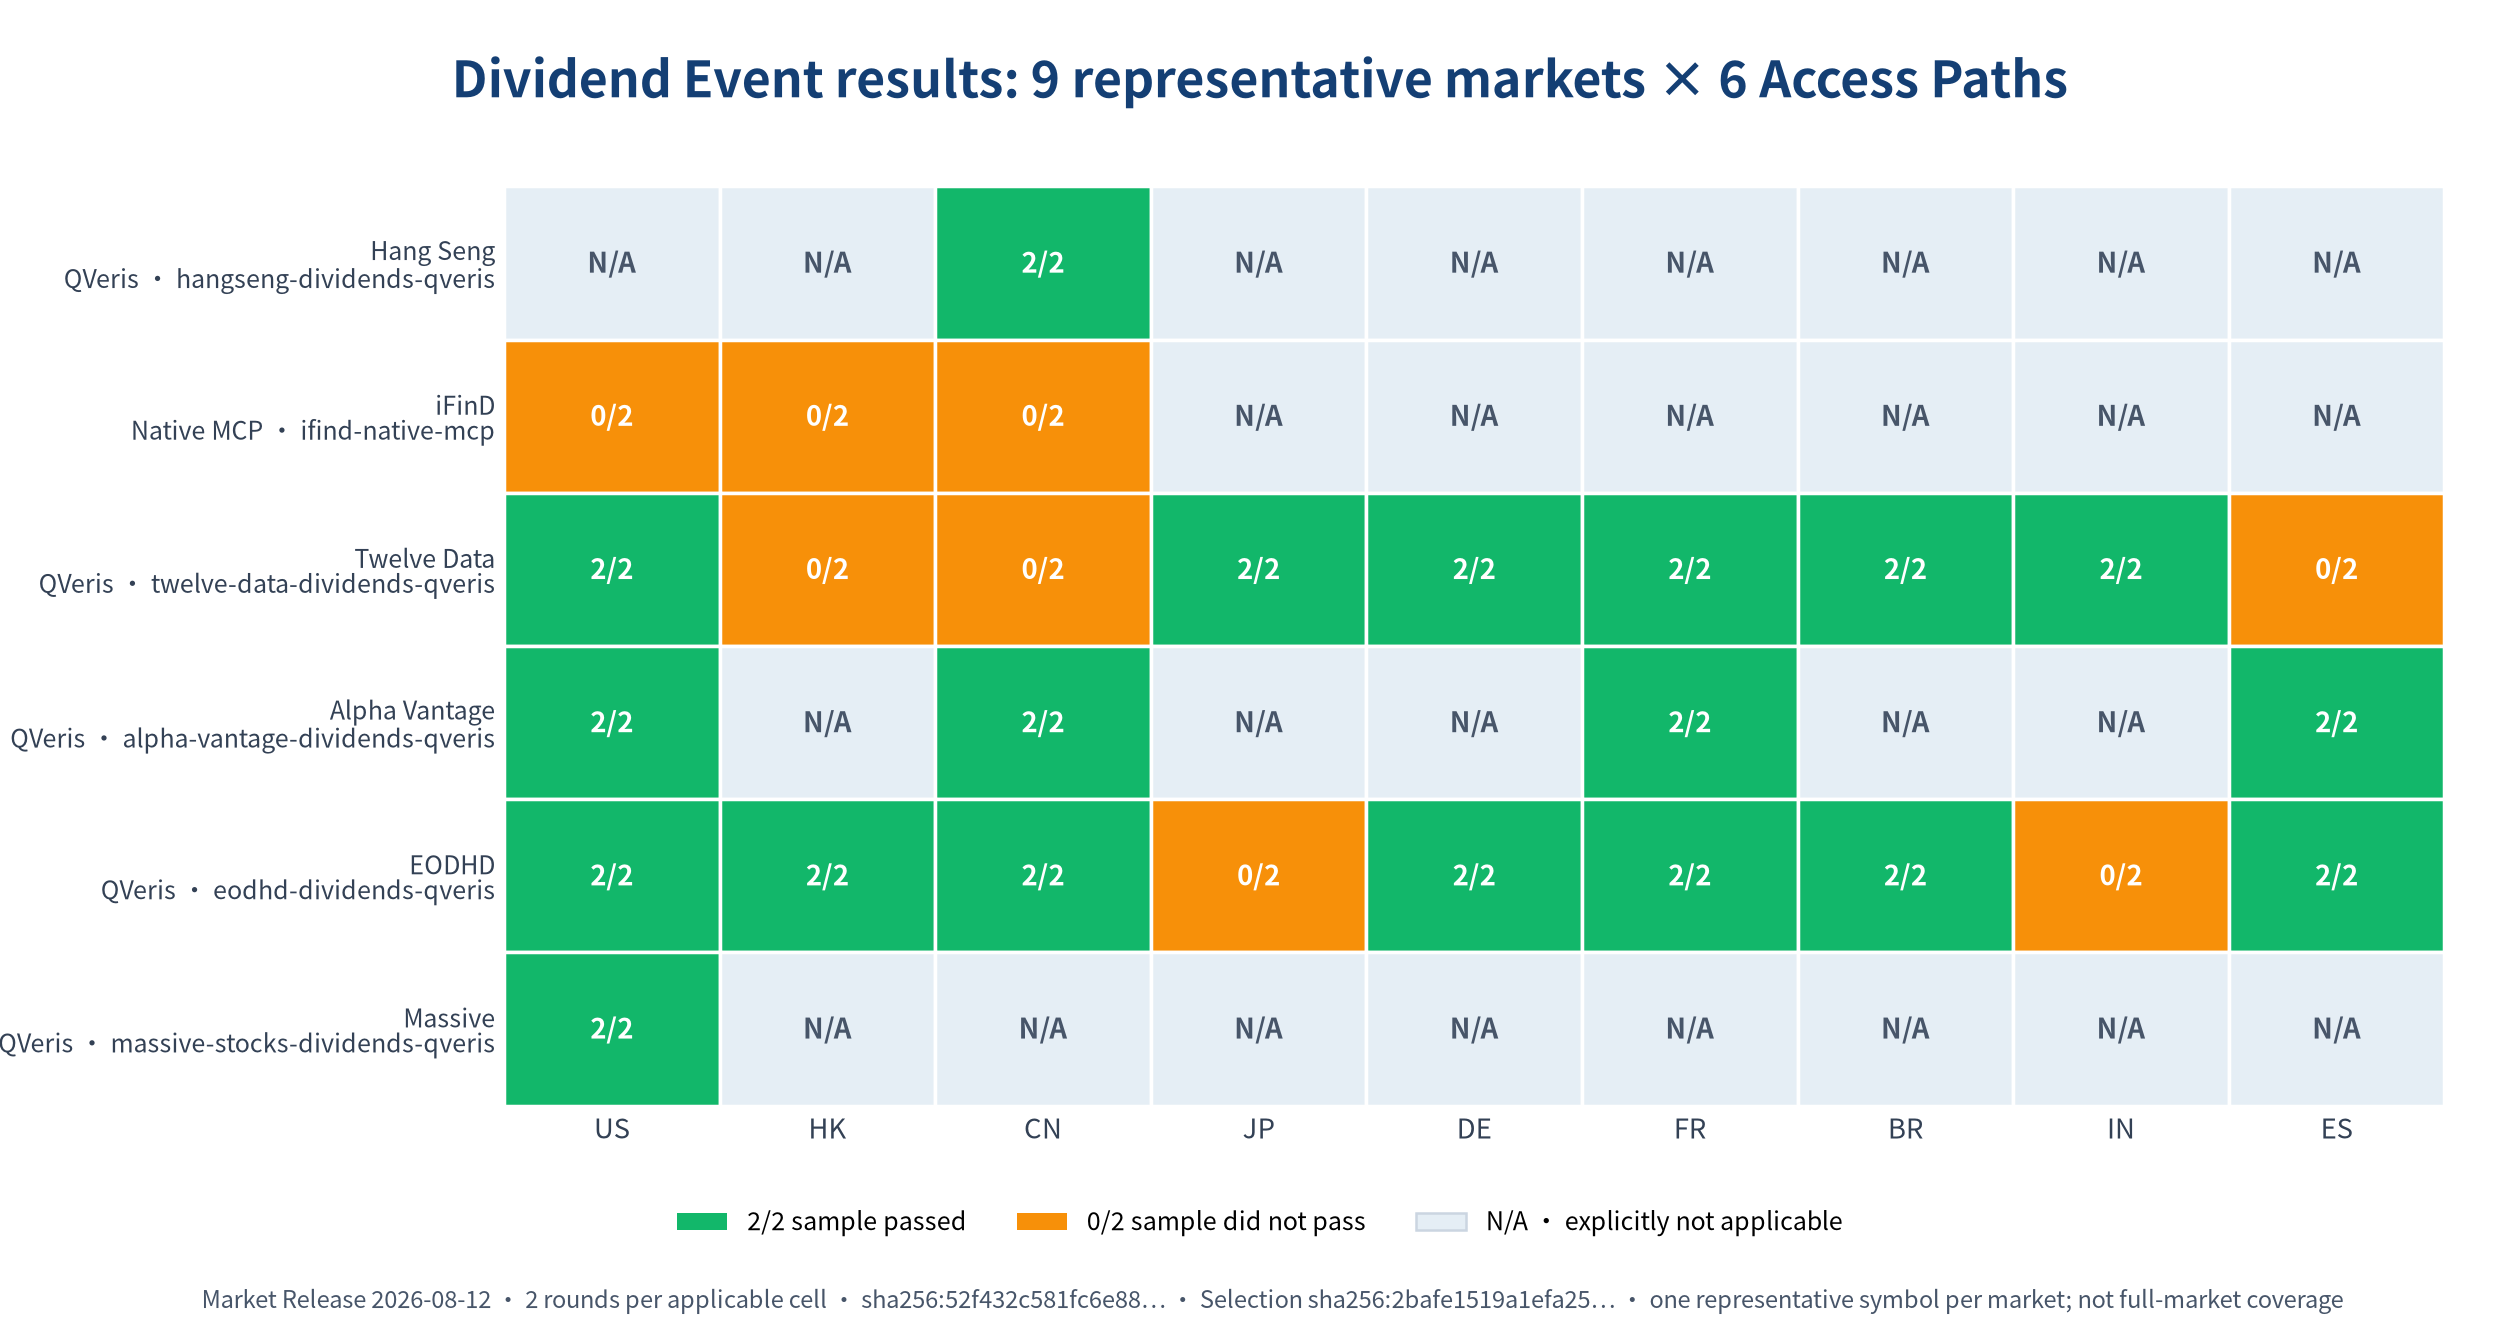
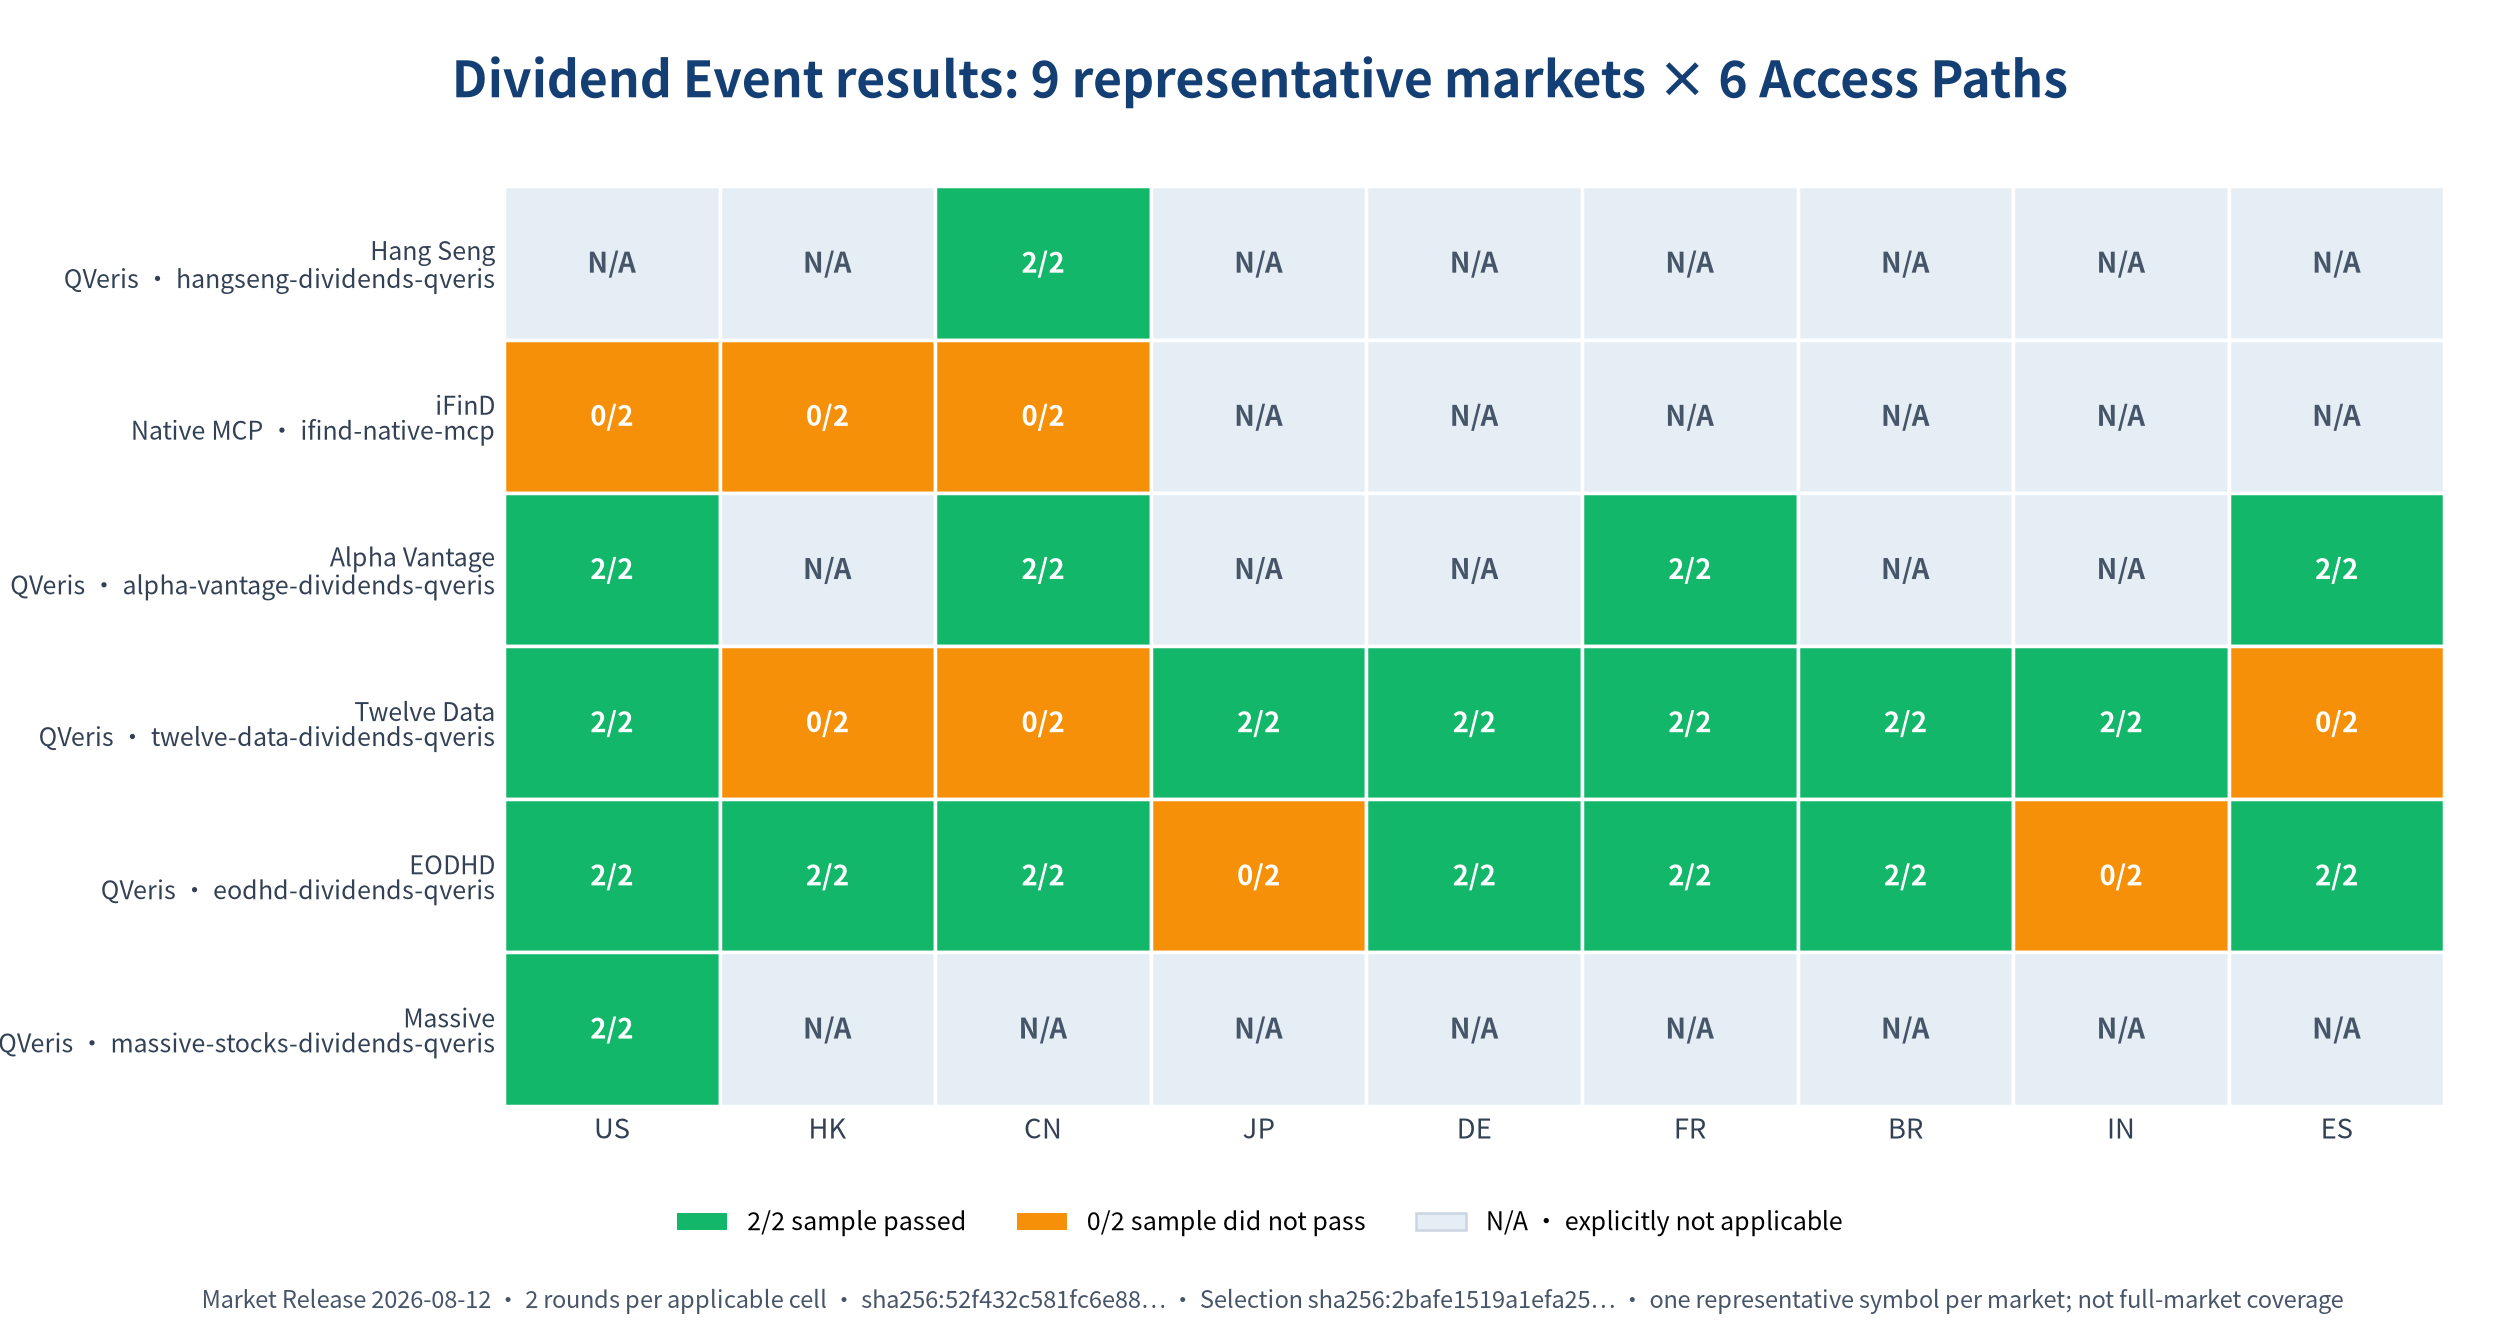
docs: prioritize Alpha Vantage in dividend guide

diff --git a/tests/guides/test_dividend_guide_release.py b/tests/guides/test_dividend_guide_release.py
@@ -115,6 +115,33 @@ def test_article_uses_reader_facing_outcomes_and_one_decision_flow() -> None:
     assert "## Five things to do when integrating an AI Agent" not in article
 
 
+def test_article_keeps_one_provider_order_across_comparisons() -> None:
+    article = ARTICLE.read_text(encoding="utf-8")
+    expected = [
+        "Hang Seng",
+        "iFinD",
+        "Alpha Vantage",
+        "Twelve Data",
+        "EODHD",
+        "Massive",
+    ]
+    tables = [
+        _markdown_table_rows(article, "| Provider and Access Path |"),
+        _markdown_table_rows(article, "| Provider / Access Path | Free or trial"),
+        _markdown_table_rows(article, "Representative markets passed (2/2)"),
+        _markdown_table_rows(
+            article, "| Provider and Access Path | Required event fields |"
+        ),
+    ]
+
+    for rows in tables:
+        assert [next(name for name in expected if name in row[0]) for row in rows] == (
+            expected
+        )
+    headings = [article.index(f"#### {name}:") for name in expected]
+    assert headings == sorted(headings)
+
+
 def test_article_publishes_inspect_list_prices_not_discounted_account_costs() -> None:
     article = ARTICLE.read_text(encoding="utf-8")
     overview_rows = _markdown_table_rows(article, "| Provider and Access Path |")

diff --git a/scripts/render_cap_guide_charts.py b/scripts/render_cap_guide_charts.py
@@ -58,8 +58,8 @@ def _sha256_identity(path: Path) -> str:
 _DIVIDEND_PROVIDERS = {
     "hangseng": "Hang Seng",
     "ifind": "iFinD",
-    "twelve-data": "Twelve Data",
     "alpha-vantage": "Alpha Vantage",
+    "twelve-data": "Twelve Data",
     "eodhd": "EODHD",
     "massive-stocks": "Massive",
 }

diff --git a/docs/guides/best-dividend-apis.md b/docs/guides/best-dividend-apis.md
@@ -1,12 +1,12 @@
 # Best Dividend APIs for Developers in 2026: 6 Providers
 
-There is no single best dividend API for every application. Through the tested QVeris Access Paths, Twelve Data, Alpha Vantage, EODHD, and Massive returned the required ex-dividend date and single-event amount for the fixed AAPL sample. Their published facts do not independently prove that each response identified `AAPL`, so production identity validation remains necessary. Hang Seng's tested QVeris Access Path passed the representative mainland China sample with a response security code that matched the request.
+There is no single best dividend API for every application. Through the tested QVeris Access Paths, Alpha Vantage, Twelve Data, EODHD, and Massive returned the required ex-dividend date and single-event amount for the fixed AAPL sample. Their published facts do not independently prove that each response identified `AAPL`, so production identity validation remains necessary. Hang Seng's tested QVeris Access Path passed the representative mainland China sample with a response security code that matched the request.
 
 This dividend API comparison treats a successful response as only the starting point. A dividend data API must let your application verify the **security identity, ex-dividend date, and cash amount per share for one event**. Among the US samples, Alpha Vantage and Massive exposed the broadest event-date sets, while Twelve Data and Massive explicitly returned currency. The iFinD Native MCP returned an annual cumulative per-unit dividend, but not a dated, single Dividend Event.
 
 We made 102 live calls across two test suites, including invalid-symbol controls and representative symbols from US, HK, CN, JP, DE, FR, BR, IN, and ES. These **representative market sample results** are not claims about every security, date range, entitlement, or market a provider covers.
 
-> **Quick recommendation:** Through the tested QVeris Access Paths, start by reproducing Twelve Data, Alpha Vantage, EODHD, or Massive for basic US Dividend Events. For broader representative-market results, EODHD passed 7 markets and Twelve Data passed 6. Alpha Vantage passed all 4 markets that QVeris marked applicable; we did not spend calls retesting the other 5 explicitly unsupported markets.
+> **Quick recommendation:** Through the tested QVeris Access Paths, start by reproducing Alpha Vantage, Twelve Data, EODHD, or Massive for basic US Dividend Events. For broader representative-market results, EODHD passed 7 markets and Twelve Data passed 6. Alpha Vantage passed all 4 markets that QVeris marked applicable; we did not spend calls retesting the other 5 explicitly unsupported markets.
 
 ## Contents
 
@@ -26,8 +26,8 @@ The baseline test ran on August 11, 2026. Each applicable Access Path had one po
 |---|---|---:|---|---|
 | [Hang Seng](https://www.gildata.com/products/core-data.html) (QVeris) · [Try it in QVeris](https://qveris.ai/providers/hangseng_polysource) | **CN sample passed:** both rounds returned a verifiable security identity, ex-dividend date, and single-event amount | 623 ms / 1 credit/call | No public standard price; contact sales | CN passed (2/2); other 8 not tested: explicitly not applicable |
 | [iFinD](https://mcp.51ifind.com/gwstatic/static/ds_web/ifind-mcp-web/skills/SKILL_INSTALL_GUIDE.md) (Native MCP) | **Sample did not pass:** no single-event date, and the annual cumulative value cannot establish the amount for one event | Not applicable; Native MCP is excluded from QVeris metrics | Personal CNY 40/month for 5,000 requests | US, HK, and CN samples did not pass (0/2); other 6 not tested: explicitly not applicable |
-| [Twelve Data](https://twelvedata.com/docs#dividends) (QVeris) · [Try it in QVeris](https://qveris.ai/providers/twelvedata) | **Sample passed:** AAPL returned an ex-dividend date and single-event amount in all three rounds; the invalid symbol produced no fabricated event | 491 ms / 2.37 credits/call | Grow from USD 29/month; free tier 800 credits/day | 6 markets passed (2/2); HK, CN, and ES samples did not pass (0/2) |
 | [Alpha Vantage](https://www.alphavantage.co/documentation/#dividends) (QVeris) · [Try it in QVeris](https://qveris.ai/providers/alphavantage) | **Sample passed:** both the AAPL sample and invalid-symbol control met the contract in all three rounds | 576 ms / 1 credit/call | Premium from USD 49.99/month; free tier 25 requests/day | 4 applicable markets passed (2/2); 5 not tested: explicitly not applicable |
+| [Twelve Data](https://twelvedata.com/docs#dividends) (QVeris) · [Try it in QVeris](https://qveris.ai/providers/twelvedata) | **Sample passed:** AAPL returned an ex-dividend date and single-event amount in all three rounds; the invalid symbol produced no fabricated event | 491 ms / 2.37 credits/call | Grow from USD 29/month; free tier 800 credits/day | 6 markets passed (2/2); HK, CN, and ES samples did not pass (0/2) |
 | [EODHD](https://eodhd.com/financial-apis/api-splits-dividends/) (QVeris) · [Try it in QVeris](https://qveris.ai/providers/eodhd) | **Sample passed:** both the AAPL sample and invalid-symbol control met the contract in all three rounds | 779 ms / 2.81 credits/call | All-in-One USD 99.99/month | 7 markets passed (2/2); JP and IN samples did not pass (0/2) |
 | [Massive](https://massive.com/docs/rest/stocks/corporate-actions/dividends) (QVeris) · [Try it in QVeris](https://qveris.ai/providers/massive_stocks) | **Sample passed:** both the AAPL sample and invalid-symbol control met the contract in all three rounds | 861 ms / 1 credit/call | [Stocks Basic Free](https://massive.com/pricing?product=stocks); Dividend endpoint included in all Stocks plans | US passed (2/2); other 8 not tested: explicitly not applicable |
 
@@ -44,7 +44,7 @@ These four public states describe evidence, not a final procurement decision:
 
 ### You only need a US ex-dividend date and single-event amount
 
-The tested QVeris Access Paths for Twelve Data, Alpha Vantage, EODHD, and Massive should be on the first reproduction shortlist. Then compare three engineering dimensions: the fields your product needs, the QVeris list price per call, and P95/P99 latency measured again from your deployment region.
+The tested QVeris Access Paths for Alpha Vantage, Twelve Data, EODHD, and Massive should be on the first reproduction shortlist. Then compare three engineering dimensions: the fields your product needs, the QVeris list price per call, and P95/P99 latency measured again from your deployment region.
 
 ### You need declaration, record, and payment dates
 
@@ -88,8 +88,8 @@ Twelve Data had the lowest median latency in this sample. Alpha Vantage, Hang Se
 |---|---|---|---|
 | [Hang Seng / QVeris](https://www.gildata.com/products/core-data.html) | `Not published for this snapshot.` | `Commercial; see product page.` | Provider product page; QVeris list price comes from the Inspect snapshot |
 | [iFinD / Native MCP](https://mcp.51ifind.com/?syncCookieTimes=1#/pricing) | `New accounts receive 2,000 trial requests` | `Personal CNY 40/month for 5,000 requests; Enterprise CNY 5,000/month for 1,000,000 requests` | Native MCP only |
-| [Twelve Data / QVeris](https://twelvedata.com/pricing) | `Basic with 8 API credits per minute and 800 per day` | `Grow from USD 29/month` | Provider-wide official price; QVeris price verified per Tool |
 | [Alpha Vantage / QVeris](https://www.alphavantage.co/premium/) | `25 API requests per day` | `Premium from USD 49.99/month` | Provider-wide official price; QVeris price verified per Tool |
+| [Twelve Data / QVeris](https://twelvedata.com/pricing) | `Basic with 8 API credits per minute and 800 per day` | `Grow from USD 29/month` | Provider-wide official price; QVeris price verified per Tool |
 | [EODHD / QVeris](https://eodhd.com/pricing) | `20 API calls per day` | `All-in-One USD 99.99/month` | Provider-wide official price; QVeris price verified per Tool |
 | [Massive / QVeris](https://massive.com/pricing?product=stocks) | `Stocks Basic Free` | `Stocks Starter USD 29/month` | Official documentation includes Dividends in all Stocks plans; QVeris price verified per Tool |
 
@@ -105,8 +105,8 @@ Green means the fixed representative symbol returned a verifiable security ident
 |---|---|---|---|
 | Hang Seng / QVeris | CN | — | US, HK, JP, DE, FR, BR, IN, ES: contract limited to mainland China exchanges |
 | iFinD / Native MCP | — | US, HK, CN: no single-event date or amount meaning | JP, DE, FR, BR, IN, ES: contract declares only US/HK/CN |
-| Twelve Data / QVeris | US, JP, DE, FR, BR, IN | HK, CN, ES | — |
 | Alpha Vantage / QVeris | US, CN, FR, ES | — | HK, JP, DE, BR, IN: explicitly unsupported by QVeris |
+| Twelve Data / QVeris | US, JP, DE, FR, BR, IN | HK, CN, ES | — |
 | EODHD / QVeris | US, HK, CN, DE, FR, BR, ES | JP, IN | — |
 | Massive / QVeris | US | — | HK, CN, JP, DE, FR, BR, IN, ES: Stocks Access Path applies to US equities |
 
@@ -124,13 +124,13 @@ The representative CN sample returned a verifiable security identity, ex-dividen
 
 The iFinD Native MCP returned an annual cumulative per-unit dividend in all three baseline rounds but no verifiable ex-dividend date. That value cannot establish the amount of one event, so it does not satisfy this article's event-calendar, ex-date backtest, or price-adjustment use cases. We tested only the official Native MCP and do not provide a QVeris CTA for iFinD.
 
-#### Twelve Data: direct core fields with explicit currency
-
-The AAPL sample returned `effective_date`, `amount`, and `currency`, making it a reproduction candidate for basic US dividend calendars and notifications. We did not measure pagination limits, complete market scope, or plan quotas.
-
 #### Alpha Vantage: richer event dates in the sample
 
 In addition to the required fields, the sample included declaration, record, and payment dates. This makes Alpha Vantage a priority reproduction candidate for multi-stage event models, but it does not prove those fields are complete across all records.
+
+#### Twelve Data: direct core fields with explicit currency
+
+The AAPL sample returned `effective_date`, `amount`, and `currency`, making it a reproduction candidate for basic US dividend calendars and notifications. We did not measure pagination limits, complete market scope, or plan quotas.
 
 #### EODHD: core fields in a compact shape
 
@@ -148,8 +148,8 @@ We did not run an Agent Trial and do not publish an aggregate Agent rating. For 
 |---|---|---|---|---|---|
 | Hang Seng (QVeris) | CN sample 2/2 | Returned security code matched the requested symbol | Handled correctly 3/3 | Not returned in this sample | Declaration, record, and payment dates |
 | iFinD (Native MCP) | Missing single-event amount meaning and ex-dividend date | No response security code was available to cross-check | Handled correctly 3/3 | Not published in this sample | No single-event date set |
-| Twelve Data (QVeris) | 3/3 | Published sample does not prove the response identified `AAPL` | Handled correctly 3/3 | `USD` | Only ex-dividend date in this sample |
 | Alpha Vantage (QVeris) | 3/3 | Published sample does not prove the response identified `AAPL` | Handled correctly 3/3 | Not returned in this sample | Declaration, record, and payment dates |
+| Twelve Data (QVeris) | 3/3 | Published sample does not prove the response identified `AAPL` | Handled correctly 3/3 | `USD` | Only ex-dividend date in this sample |
 | EODHD (QVeris) | 3/3 | Published sample does not prove the response identified `AAPL` | Handled correctly 3/3 | Not returned in this sample | Only ex-dividend date in this sample |
 | Massive (QVeris) | 3/3 | Published sample does not prove the response identified `AAPL` | Handled correctly 3/3 | `USD` | Declaration, record, and payment dates |
 
@@ -221,7 +221,7 @@ The public evidence, test rules, and reproduction entry points are available fro
 
 ### Which dividend API is best for developers?
 
-There is no context-free winner. For a US ex-dividend date and single-event amount, reproduce the tested QVeris Access Paths for Twelve Data, Alpha Vantage, EODHD, and Massive first. Among the US samples, Alpha Vantage and Massive exposed the fuller date sets. For explicit currency, start with the tested QVeris Access Paths for Twelve Data or Massive.
+There is no context-free winner. For a US ex-dividend date and single-event amount, reproduce the tested QVeris Access Paths for Alpha Vantage, Twelve Data, EODHD, and Massive first. Among the US samples, Alpha Vantage and Massive exposed the fuller date sets. For explicit currency, start with the tested QVeris Access Paths for Twelve Data or Massive.
 
 ### Does “sample passed” mean the data is completely reliable?
 
